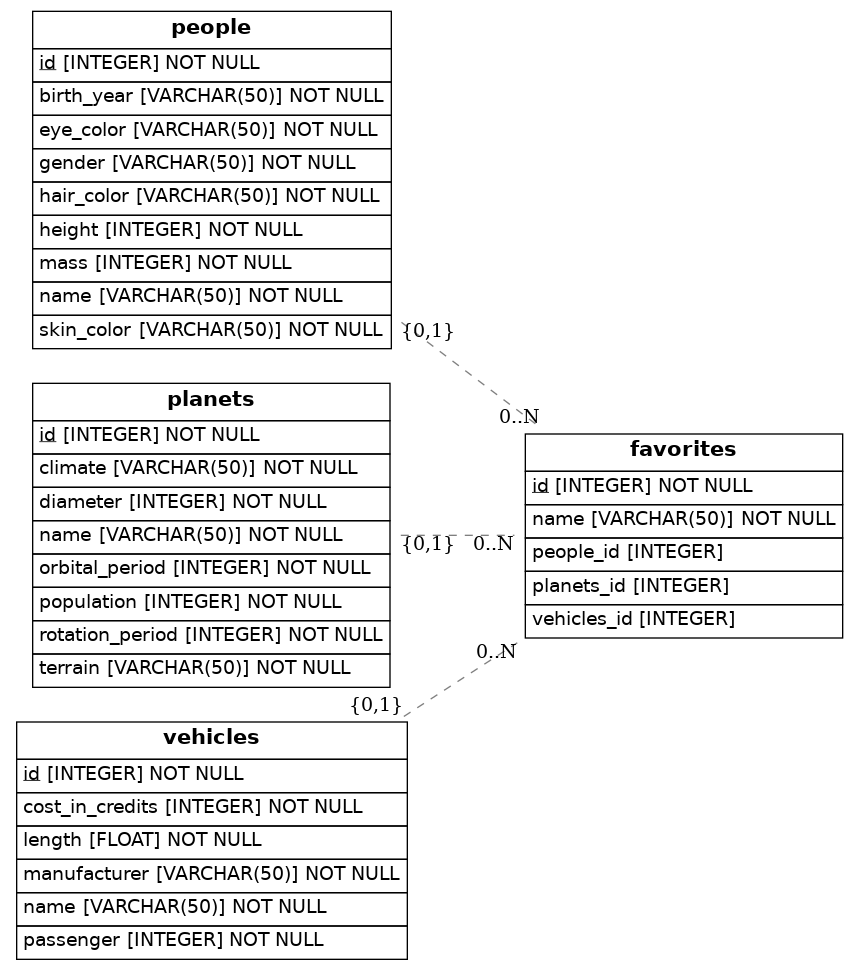
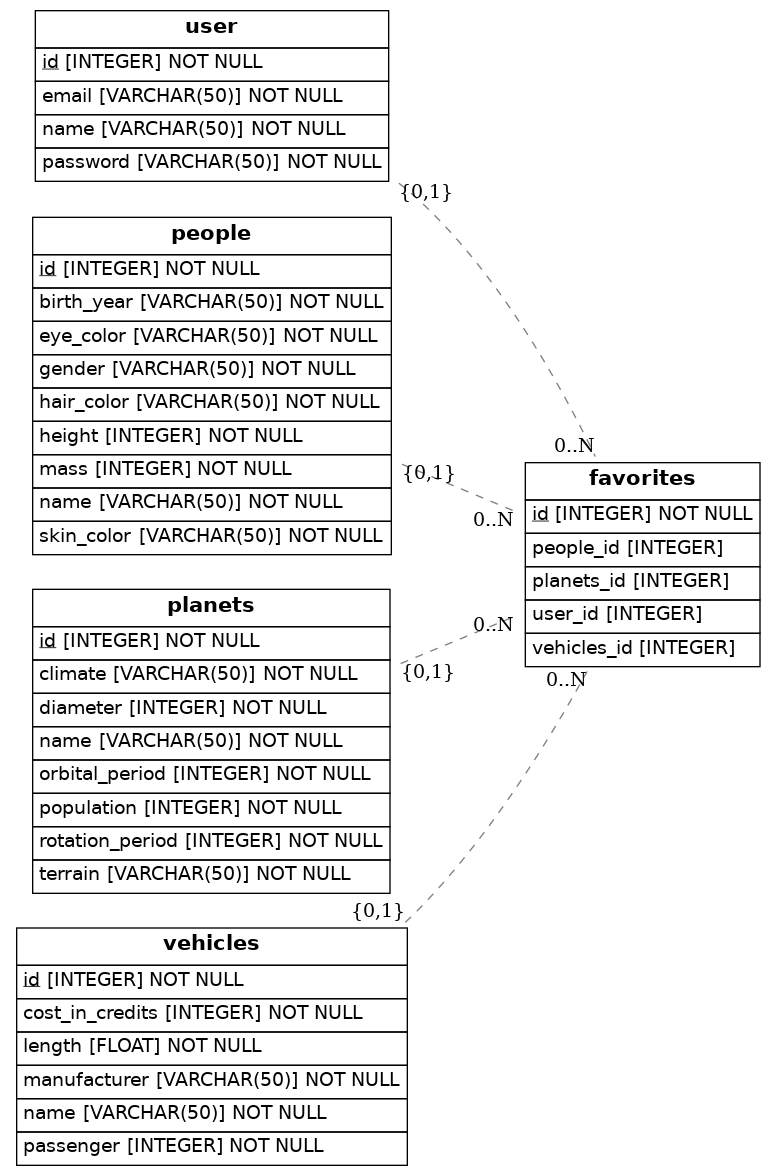
ADD: User

Changed region(s): [[0.0, 0.0, 0.9897, 1.0]]

diff --git a/src/models.py b/src/models.py
@@ -7,6 +7,13 @@ from eralchemy2 import render_er
 
 Base = declarative_base()
 
+class User(Base):
+    __tablename__ = 'user'
+    id = Column(Integer, primary_key=True)
+    name = Column(String(50), nullable=False)
+    email = Column(String(50), nullable=False)
+    password = Column(String(50), nullable=False)
+
 class People(Base):
     __tablename__ = 'people'
     id = Column(Integer, primary_key=True)
@@ -43,7 +50,8 @@ class Vehicles(Base):
 class Favorites(Base):
     __tablename__ = 'favorites'
     id = Column(Integer, primary_key=True)
-    name = Column(String(50), nullable=False)
+    user_id = Column(Integer, ForeignKey('user.id'))
+    user = relationship(User)
     people_id = Column(Integer, ForeignKey('people.id'))
     people = relationship(People)
     planets_id = Column(Integer, ForeignKey('planets.id'))
@@ -51,6 +59,8 @@ class Favorites(Base):
     vehicles_id = Column(Integer, ForeignKey('vehicles.id'))
     vehicles = relationship(Vehicles)
 
+    def to_dict(self):
+        return {}
 
 ## Draw from SQLAlchemy base
 render_er(Base, 'diagram.png')
